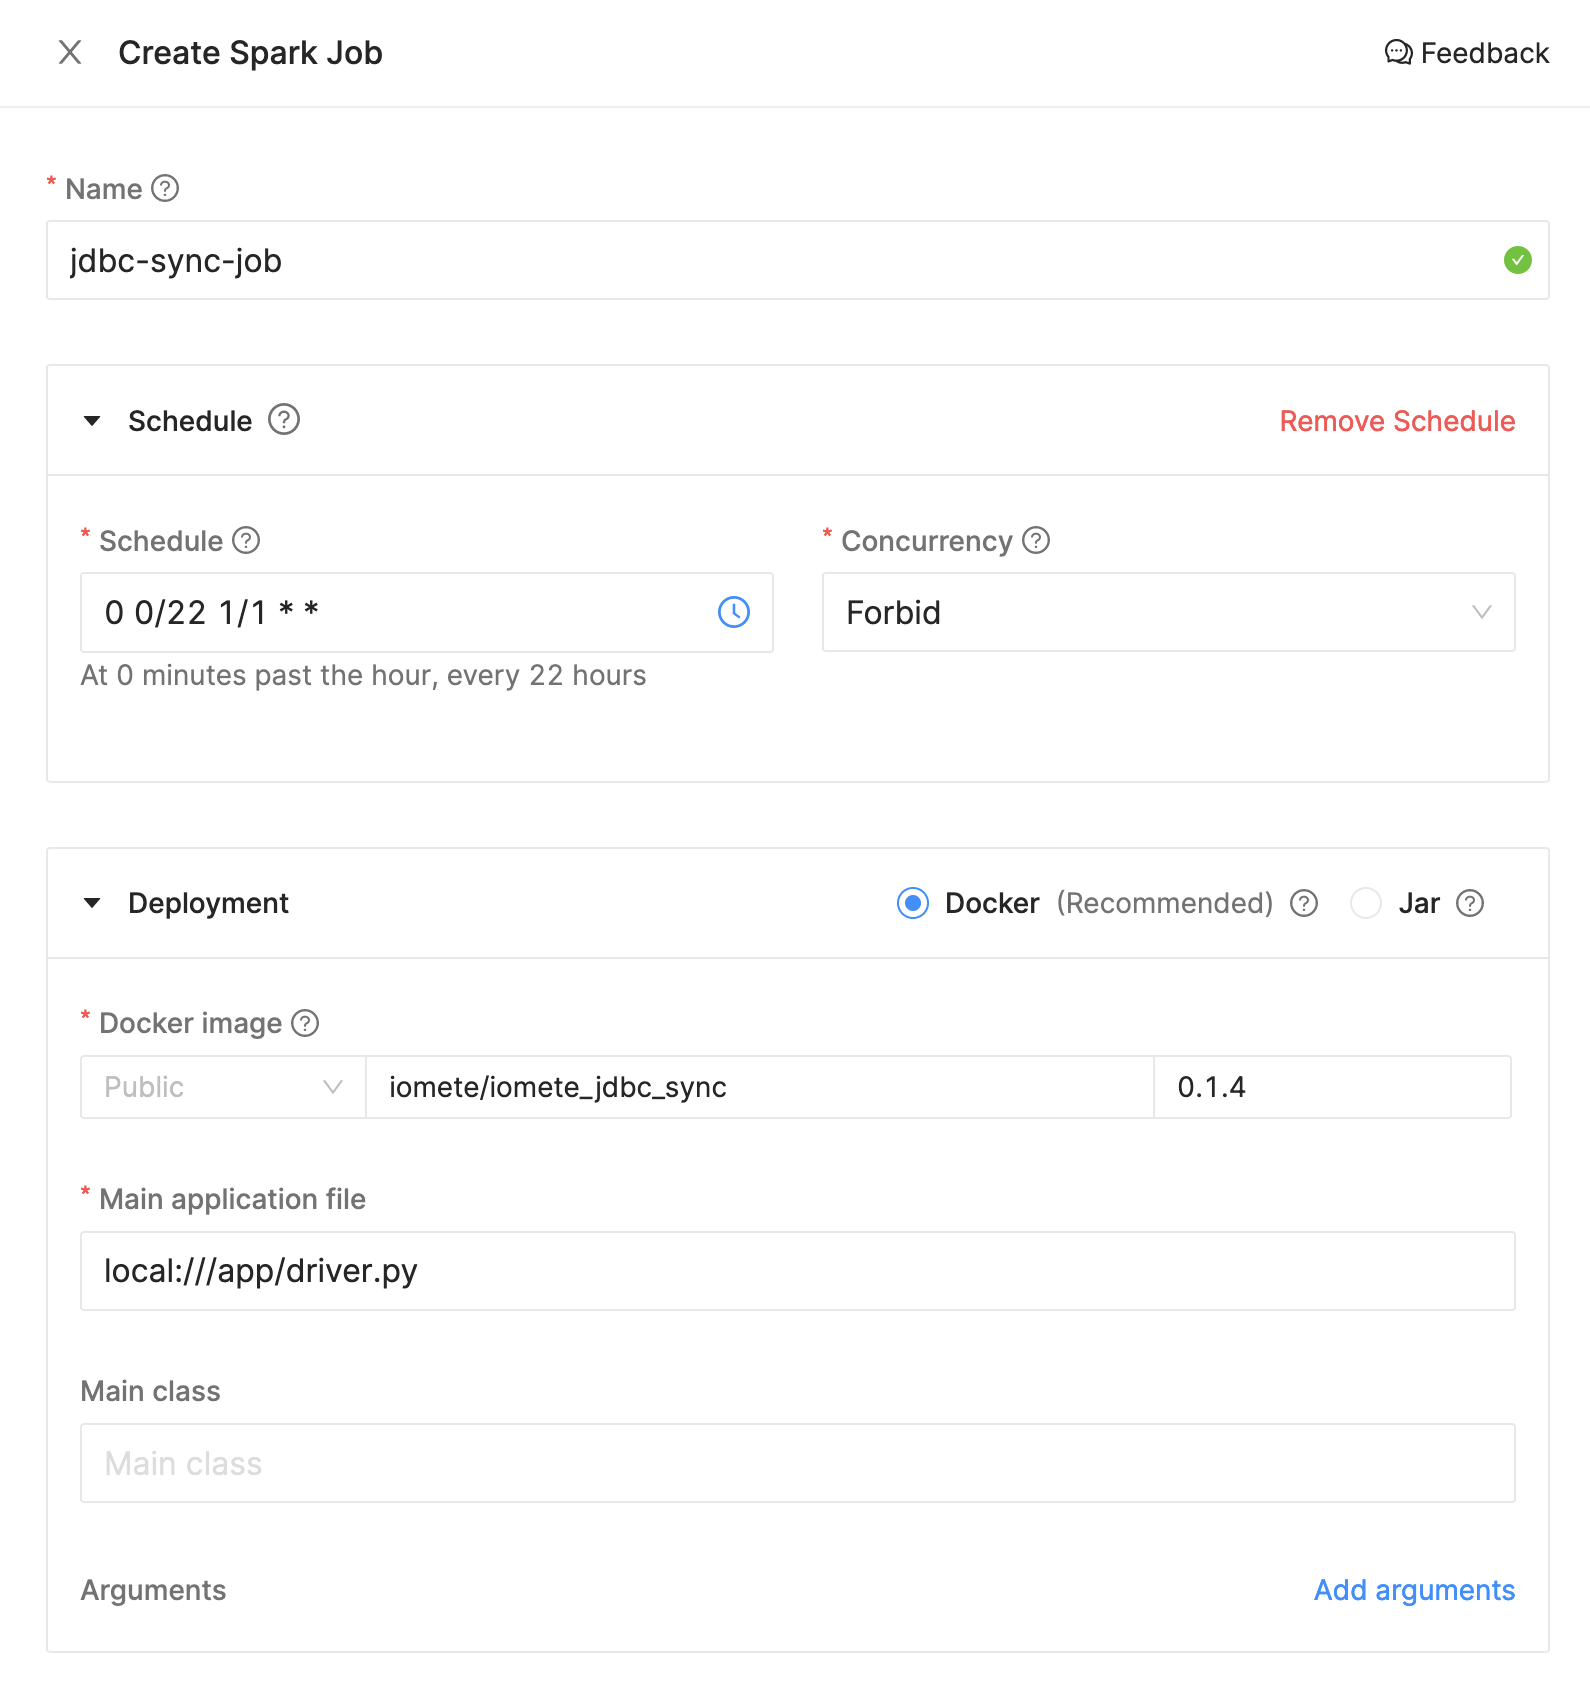
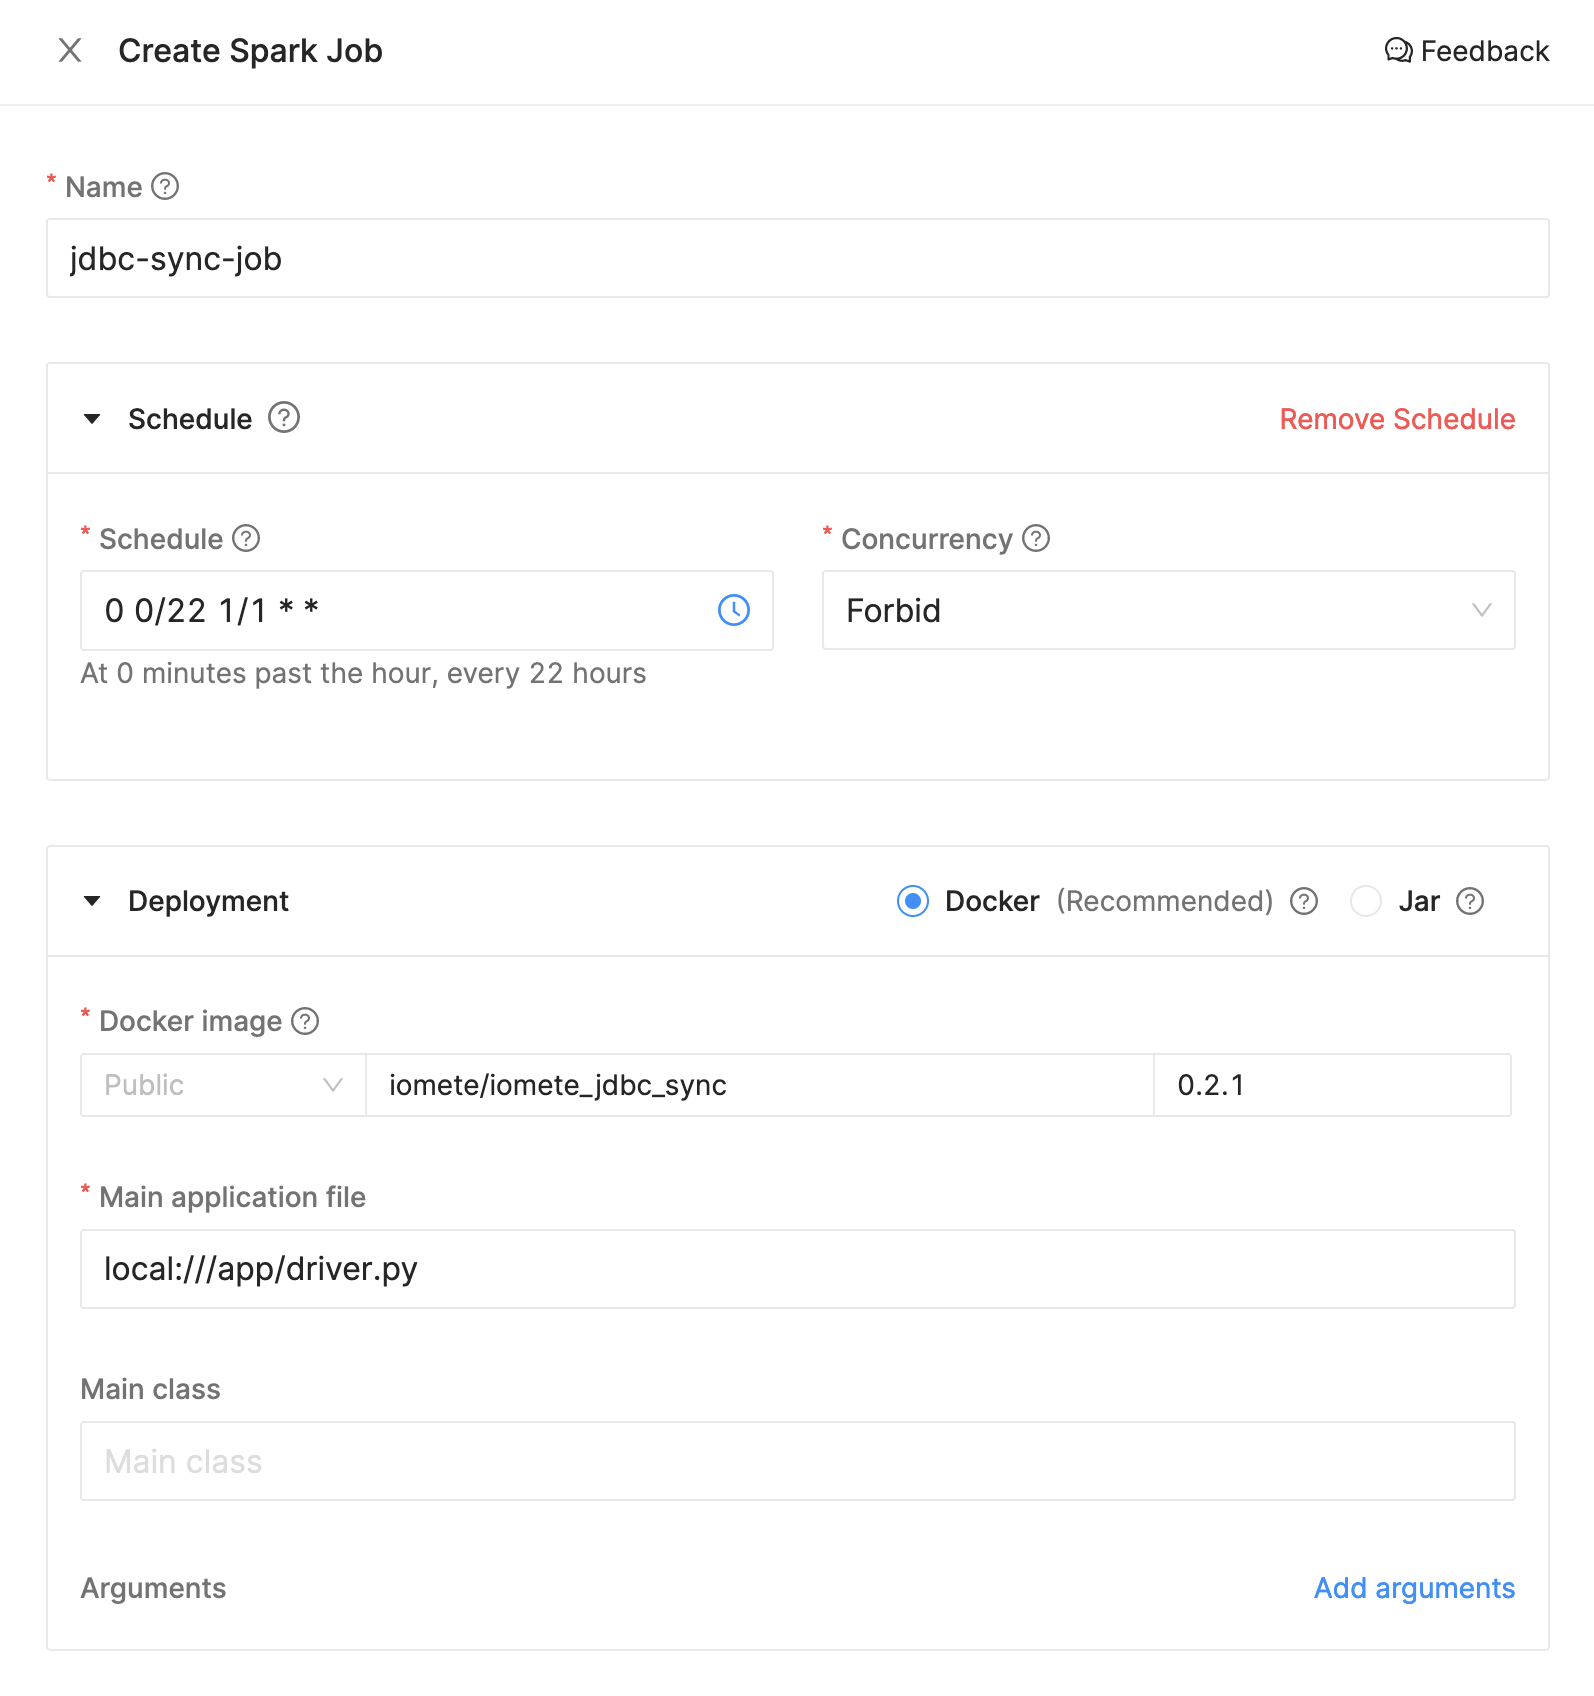
Release 0.2.1: Version updated ot latest in setup.cfg

diff --git a/readme.md b/readme.md
@@ -4,6 +4,15 @@ This library provides easily replicate tables from JDBC databases (MySQL, Postgr
 
 > **Note**: It requires you have SSH Tunnel between iomete if your database in a private network (see: https://docs.iomete.com/docs/database-connection-options)
 
+## Sync mode
+
+You can define sync mode for each table. Currently, supported sync modes are:
+
+- `FullLoad`: Read everything in the source and overwrites whole table at the destination at each sync
+- `IncrementalSnapshot`: It creates the snapshot of table in the destination and only move the newly inserted and
+  updated records. While writing to iomete it uses merge statement. This mode requires 2
+  parameters: `identification_column` will be used on merge statement, and `tracking_column` to track the where it
+  should continue to get data from the source table
 
 ## Deployment
 
@@ -13,53 +22,36 @@ This library provides easily replicate tables from JDBC databases (MySQL, Postgr
 Specify the following parameters (these are examples, you can change them based on your preference):
 - **Name:** `jdbc-sync-job`
 - **Schedule:** `0 0/22 1/1 * *`
-- **Docker Image:** `iomete/iomete_jdbc_sync:0.1.4`
+- **Docker Image:** `iomete/iomete_jdbc_sync:0.2.1`
 - **Main application file:** `local:///app/driver.py`
+- **Environment Variables:** `DB_PASSWORD`: `9tVDVEKp`
 - **Config file:** 
 ```hocon
 {
-  "source_connection": {
-    "type": "mysql",
-    "host": "iomete-tutorial.cetmtjnompsh.eu-central-1.rds.amazonaws.com",
-    "port": "3306",
-    "username": "tutorial_user",
-    "password": "9tVDVEKp"
-  },
-  "source_schema": "employees",
-  "destination_schema": "employees_raw",
-  "syncs": [
-    {
-      "table_names": ["departments"],
-      "sync_mode": {
-        "type": "full_load"
-      }
+    source_connection: {
+        type: mysql,
+        host: "iomete-tutorial.cetmtjnompsh.eu-central-1.rds.amazonaws.com",
+        port: 3306,
+        username: tutorial_user,
+        password: ${DB_PASSWORD}
     },
-    {
-      "table_names": ["dept_emp"],
-      "sync_mode": {
-        "type": "incremental_snapshot",
-        "identification_column": "id",
-        "tracking_column": "updated_at"
-      }
-    }
-  ]
+    syncs: [
+        {
+            source.schema: employees
+            source.tables: ["*"]
+            source.exclude_tables: ["salaries"]
+            destination.schema: employees_raw
+            sync_mode.type: full_load
+        },
+        {
+            source.schema: employees
+            source.tables: [ departments, dept_manager ]
+            destination.schema: employees_dep
+            sync_mode.type: full_load
+        }
+    ]
 }
 ```
-> **Note**: `updated_at` column does not exist in `dept_emp` table. We put it just for example. First time you run job, there will not be any problem. Because first time job will load full data. But if you run job second time job will throw exception (`cannot resolve 'updated_at' given input columns`)
-
-Create Spark Job
-![Create Spark Job.png](doc/img/1-create-spark-job.png)
-
-Create Spark Job - Application Config
-![Create Spark Job - Application Config.png](doc/img/2-create-spark-job-application-config.png)
-
-And, hit the create button.
-
----
-The job will be run based on the defined schedule. But, you can trigger the job manually by clicking on the `Run` button.
-
-![Manual Run](doc/img/3-manual-run.png)
-
 
 ## Configuration properties
 <table>
@@ -88,22 +80,6 @@ The job will be run based on the defined schedule. But, you can trigger the job 
     </tr>
     <tr>
       <td>
-        <code>source_schema</code><br/>
-      </td>
-      <td>
-        <p><code>source_schema</code> is where your tables stored.</p>
-      </td>
-    </tr>
-    <tr>
-      <td>
-        <code>destination_schema</code><br/>
-      </td>
-      <td>
-        <p>Your tables will store under <code>destination_schema</code> in your Warehouse at <strong>iomete</strong>.</p>
-      </td>
-    </tr>
-    <tr>
-      <td>
         <code>syncs</code><br/>
       </td>
       <td>
@@ -111,18 +87,43 @@ The job will be run based on the defined schedule. But, you can trigger the job 
           <tbody>
             <tr>
               <td>
-                <code>table_names</code>
+                <code>source.schema</code>
               </td>
               <td>
-                <p>List of tables which you want to replicate</p>
+                <p>Database where your tables stored.</p>
               </td>
             </tr>
             <tr>
               <td>
-                <code>sync_mode</code>
+                <code>source.tables</code>
               </td>
               <td>
-                You can choose sync mode. Full load or incremental
+                <p>List of tables which you want to replicate. If you want to move all tables set <code>["*"]</code></p>
+              </td>
+            </tr>
+            <tr>
+              <td>
+                <code>source.exclude_tables</code>
+              </td>
+              <td>
+                <p>List of tables which you <strong>do not want</strong> to replicate.</p>
+                <em>(Optional)</em>
+              </td>
+            </tr>
+            <tr>
+              <td>
+                <code>destination.schema</code>
+              </td>
+              <td>
+                <p>Database name where you want to store tables in your warehouse.</p>
+              </td>
+            </tr>
+            <tr>
+              <td>
+                <code>type</code>
+              </td>
+              <td>
+                <code>full_load</code> overwrites whole table at the destination at each sync or <code>incremental_snapshot</code> only move the newly inserted and updated records.
                 <ul>
                   <li><code>full_load</code></li>
                   <li><code>incremental_snapshot</code>
@@ -132,7 +133,6 @@ The job will be run based on the defined schedule. But, you can trigger the job 
                     </ul>
                   </li>
                 </ul>
-                [Read more about sync mode](#sync-mode)
               </td>
             </tr>
           </tbody>
@@ -142,15 +142,24 @@ The job will be run based on the defined schedule. But, you can trigger the job 
 </tbody>
 </table>
 
-## Sync mode
+Create Spark Job
+![Create Spark Job.png](doc/img/1-create-spark-job.png)
 
-You can define sync mode for each table. Currently, supported sync modes are:
+Create Spark Job - Instance
 
-- `FullLoad`: Read everything in the source and overwrites whole table at the destination at each sync
-- `IncrementalSnapshot`: It creates the snapshot of table in the destination and only move the newly inserted and
-  updated records. While writing to iomete it uses merge statement. This mode requires 2
-  parameters: `identification_column` will be used on merge statement, and `tracking_column` to track the where it
-  should continue to get data from the source table
+>You can use **Environment Variables** to store your sensitive data like password, secrets, etc. Then you can use these variables in your config file using the <code>${DB_PASSWORD}</code> syntax.
+
+![Create Spark Job.png](doc/img/2-create-env-variables.png)
+
+Create Spark Job - Application Config
+![Create Spark Job - Application Config.png](doc/img/3-create-spark-job-application-config.png)
+
+And, hit the create button.
+
+---
+The job will be run based on the defined schedule. But, you can trigger the job manually by clicking on the `Run` button.
+
+![Manual Run](doc/img/4-manual-run.png)
 
 ## Development
 
